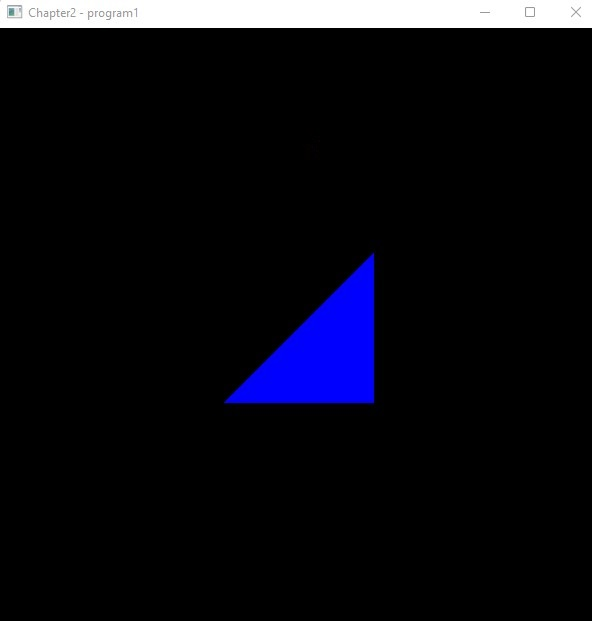
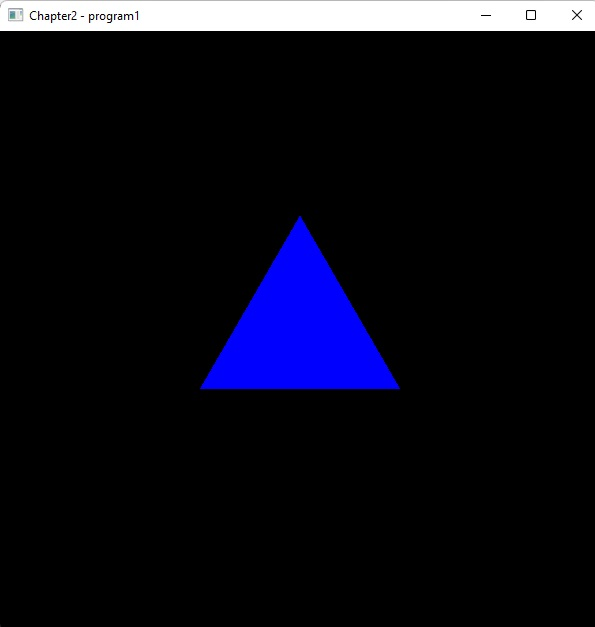
Exercise 2.2 draw isolesces triangle with chosen side length of 200px

Changed region(s): [[0.3345, 0.3366, 0.6689, 0.6731], [0.0, 0.0, 1.0, 0.0612]]

diff --git a/ComputerGraphicsProgrammingInOpenGLWithC++_Gordon/main.cpp b/ComputerGraphicsProgrammingInOpenGLWithC++_Gordon/main.cpp
@@ -9,8 +9,7 @@ using namespace std;
 
 GLuint renderingProgram;
 GLuint vao[numVAOs];
-float size_point = 1.0f; // size of point is 1 pixel
-float inc = 1.0f; // size incremental of 1 pixel
+float sideLength = 200.0f; // side of triangle is 200px
 
 void init(GLFWwindow* window) {
 	renderingProgram = Utils::createShaderProgram("vertShader.glsl", "fragShader.glsl");
@@ -25,11 +24,9 @@ void display(GLFWwindow* window, double currentTime) {
 	glUseProgram(renderingProgram);
 
 	// Read from rendering program 
-	size_point += inc;
-	if (size_point > 50.0f) inc = -1.0f; // switch to size reducing
-	if (size_point < 1.0f) inc = 1.0f; // switch to size increasing
-	glPointSize(size_point);
-	glDrawArrays(GL_POINTS, 0, 1);
+	GLuint loc = glGetUniformLocation(renderingProgram, "sideLength");
+	glProgramUniform1f(renderingProgram, loc, sideLength); // set sideLength[px] to uniform location of "sideLength" in glsl file
+	glDrawArrays(GL_TRIANGLES, 0, 3);
 }
 
 int main(void) {
